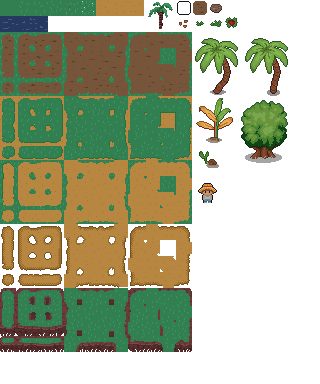
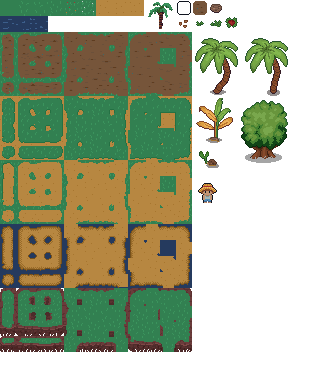
Version 0.6.0
Bug: player can leave map
 Draw sand on water tileset image
 Display zoom setting
 Add key to set zoom back to 100%
 Set zoom limits

diff --git a/resources/trading_game_design.md b/resources/trading_game_design.md
@@ -1,0 +1,210 @@
+# Trading Game Prototype (4 Cities)
+
+## 🧱 1. Data Structures
+
+### Good
+```json
+Good {
+    id: string
+    basePrice: float
+}
+```
+
+### MarketItem
+```json
+MarketItem {
+    goodId: string
+    supply: float
+    demand: float
+    stock: float
+}
+```
+
+### City
+```json
+City {
+    id: string
+    name: string
+    position: (x, y)
+
+    produces: [goodId]
+    consumes: [goodId]
+
+    market: [MarketItem]
+}
+```
+
+### Player
+```json
+Player {
+    gold: float
+    cargoCapacity: float
+    inventory: [
+        { goodId: string, amount: float }
+    ]
+    currentCityId: string
+}
+```
+
+---
+
+## 🔹 Example Setup (4 Cities)
+
+### Goods
+- Grain (basePrice: 10)
+- Iron (basePrice: 20)
+- Wood (basePrice: 15)
+- Fish (basePrice: 12)
+
+### Cities
+
+**CoastTown**  
+produces: Fish  
+consumes: Grain, Wood
+
+**MountainTown**  
+produces: Iron  
+consumes: Grain
+
+**ForestTown**  
+produces: Wood  
+consumes: Iron
+
+**FarmTown**  
+produces: Grain  
+consumes: Fish
+
+---
+
+## 💰 2. Price Calculation Model
+
+### Formula
+```text
+Price = basePrice × (1 + k × (demand - supply) / max(1, stock))
+```
+
+Recommended:
+```text
+k = 0.5
+```
+
+### Clamping
+```text
+Price = clamp(Price, basePrice * 0.5, basePrice * 3)
+```
+
+---
+
+## 🔁 Market Update (per tick)
+
+```pseudo
+for each marketItem:
+    if good in produces:
+        stock += random(5, 10)
+
+    if good in consumes:
+        stock -= random(3, 8)
+
+    stock = max(stock, 1)
+
+    demand = targetDemand - stock
+    supply = stock
+```
+
+---
+
+## 🚚 3. Gameplay Loop
+
+### High Level
+
+```text
+[1] Player in city
+     ↓
+[2] Analyze market
+     ↓
+[3] Buy goods
+     ↓
+[4] Travel (land/sea)
+     ↓
+[5] Events (optional)
+     ↓
+[6] Arrive at destination
+     ↓
+[7] Sell goods
+     ↓
+[8] Profit
+     ↓
+[9] Upgrade / plan next route
+     ↓
+→ repeat
+```
+
+---
+
+### Technical Loop
+
+```pseudo
+while gameRunning:
+
+    currentCity = player.currentCity
+
+    displayMarket(currentCity)
+
+    playerAction = choose:
+        - buy goods
+        - travel
+        - wait
+
+    if buy:
+        updatePlayerInventory()
+        decreaseCityStock()
+
+    if travel:
+        targetCity = chooseDestination()
+
+        travelTime = distance / speed
+        wait(travelTime)
+
+        triggerRandomEvents()
+
+        player.currentCity = targetCity
+
+    if sell:
+        calculatePrice()
+        increasePlayerGold()
+        increaseCityStock()
+```
+
+---
+
+## 🧭 Example Gameplay
+
+1. Start in CoastTown
+2. Fish is cheap → buy fish
+3. Travel to FarmTown
+4. Sell fish for profit
+5. Buy grain
+6. Travel and repeat trade loop
+
+---
+
+## ⚖ Balancing Tips
+
+✅ Different starting stock levels  
+✅ Randomized production  
+✅ Noticeable travel time  
+
+❌ Avoid static prices  
+❌ Avoid single optimal route
+
+---
+
+## 🚀 Minimal Playable Version
+
+- 4 cities
+- 4 goods
+- Fixed travel times
+- Price formula implemented
+- Market updates every few seconds
+
+→ Fully playable trading prototype
